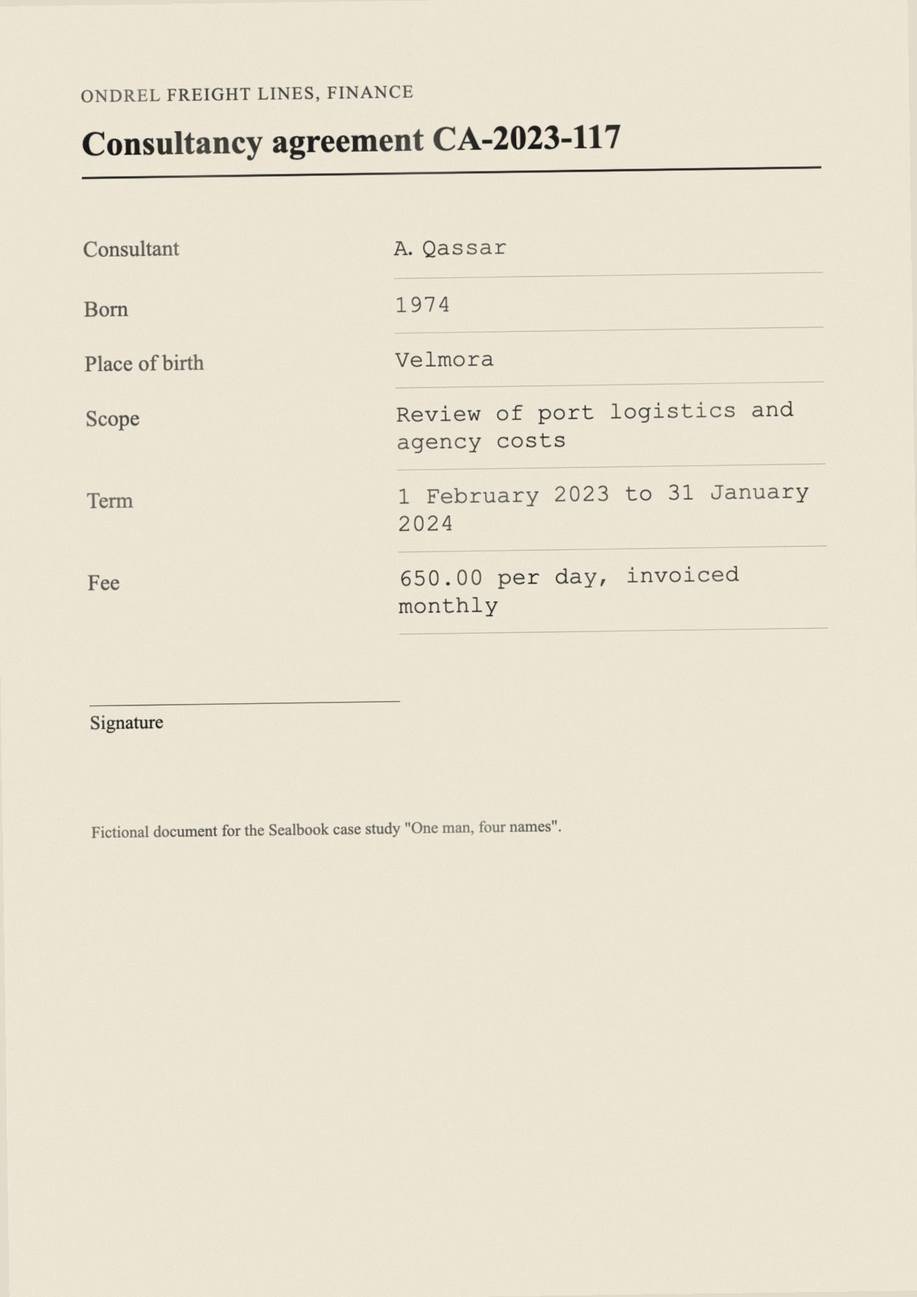
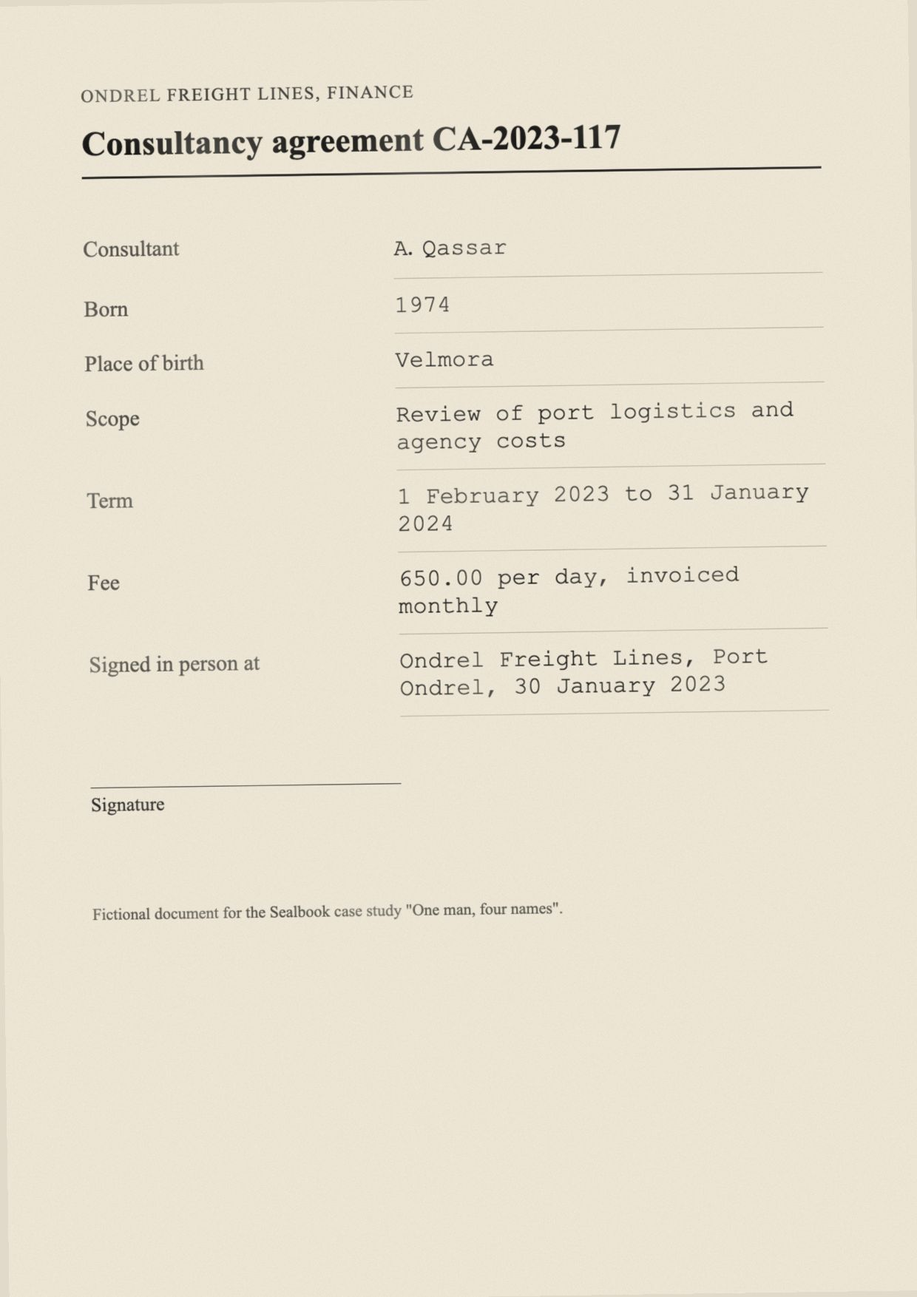
feat(cases): four-names carries a dated trail of five forms and the seeded cases are documented

diff --git a/acceptance/cases/four-names/make.py b/acceptance/cases/four-names/make.py
@@ -104,16 +104,16 @@ RECORDS = {}  # record key: (source, person)
 CLAIMS = []
 
 
-def claim(record, prop, value, pin=None):
+def claim(record, prop, value, pin=None, when=None, place=None):
     CLAIMS.append(
         {
             "key": f"{record}.{prop}",
             "record": record,
             "prop": prop,
             "value": value,
-            "from": None,
-            "to": None,
-            "place": None,
+            "from": when,
+            "to": when,
+            "place": place,
             "tier": "unconfirmed",
         }
         | ({"pin": pin} if pin else {})
@@ -394,6 +394,12 @@ SCANS = {
             ("Owner's place of birth", TOWN, "place_of_birth"),
             ("Registered office", "Quay Road 14, Port Ondrel", None),
             ("Vendor ID", "V031", None),
+            (
+                "Signed in person at",
+                "Ondrel Freight Lines, Port Ondrel, 14 June 2021",
+                "seen_at",
+                "Ondrel Freight Lines, Port Ondrel",
+            ),
         ],
     ),
     "agreement": (
@@ -407,6 +413,12 @@ SCANS = {
             ("Scope", "Review of port logistics and agency costs", None),
             ("Term", "1 February 2023 to 31 January 2024", None),
             ("Fee", "650.00 per day, invoiced monthly", None),
+            (
+                "Signed in person at",
+                "Ondrel Freight Lines, Port Ondrel, 30 January 2023",
+                "seen_at",
+                "Ondrel Freight Lines, Port Ondrel",
+            ),
         ],
     ),
     "guarantee_deed": (
@@ -418,7 +430,12 @@ SCANS = {
             ("Son of", FATHER, "father_name"),
             ("Date of birth", BORN, "birth_date"),
             ("Secures", "Ondrel Logistics credit line, up to 1,200,000.00", None),
-            ("Witnessed at", "Port Ondrel, 9 March 2023", None),
+            (
+                "Witnessed at",
+                "Ondrel Freight Lines credit desk, Port Ondrel, 9 March 2023",
+                "seen_at",
+                "Ondrel Freight Lines credit desk, Port Ondrel",
+            ),
         ],
     ),
     "passport": (
@@ -430,6 +447,12 @@ SCANS = {
             ("Sex", "M", "sex", "male"),
             ("Date of birth", BORN, "birth_date"),
             ("Place of birth", TOWN, "place_of_birth"),
+            (
+                "Original seen in person at",
+                "Ondrel Freight Lines credit desk, 9 March 2023",
+                "seen_at",
+                "Ondrel Freight Lines credit desk",
+            ),
         ],
     ),
     "licence": (
@@ -442,8 +465,28 @@ SCANS = {
             ("Date of birth", BORN, "birth_date"),
             ("Licence", "PA-2291", None),
             ("Valid until", "31 December 2024", None),
+            (
+                "Issued in person at",
+                "Harbour House, Port Ondrel, 5 January 2023",
+                "seen_at",
+                "Harbour House, Port Ondrel",
+            ),
         ],
     ),
+}
+# Where and when each form puts the man in person: one trail across the four
+# desks, each read off its own form.
+TRAIL = {
+    "vendor_form": ("2021-06-14", "freight_lines"),
+    "licence": ("2023-01-05", "harbour_house"),
+    "agreement": ("2023-01-30", "freight_lines"),
+    "guarantee_deed": ("2023-03-09", "freight_lines"),
+    "passport": ("2023-03-09", "freight_lines"),
+}
+# Invented places, in open sea so no map puts the story in a real town.
+PLACES = {  # key: name, lon, lat, precision in metres
+    "freight_lines": ("Ondrel Freight Lines, Port Ondrel", -26.104, 44.302, 100),
+    "harbour_house": ("Harbour House, Port Ondrel", -26.092, 44.296, 100),
 }
 SCAN_PERSON = {
     "vendor_form": "vendor_form/owner",
@@ -540,7 +583,9 @@ def scan_claims():
             # the field it was read from.
             if prop:
                 value = read[0] if read else shown
-                claim(record, prop, value, {"page": 1, "bbox": boxes[key][prop]})
+                when, place = TRAIL[key] if prop == "seen_at" else (None, None)
+                pin = {"page": 1, "bbox": boxes[key][prop]}
+                claim(record, prop, value, pin, when, place)
 
 
 # ---- sources, truth, case.json ---------------------------------------------------------
@@ -712,7 +757,10 @@ def main():
         },
         "investigation": INVESTIGATION,
         "today": TODAY,
-        "places": {},
+        "places": {
+            k: {"name_en": n, "name_ar": None, "lon": lon, "lat": lat, "precision_m": m}
+            for k, (n, lon, lat, m) in PLACES.items()
+        },
         "sources": {
             k: {"title": t, "doc_type": d, "sensitivity": s, "date": dt}
             | {"file": f"files/{f}"}

diff --git a/tests/test_case_studies.py b/tests/test_case_studies.py
@@ -57,7 +57,7 @@ class FourNamesScoreTest(unittest.TestCase):
         out join the licence, whose father إلياس keys as ياس (the article ال
         stripped) against Elias; the consultant's records, which name no father,
         still bridge the licence to the other three."""
-        self.assertEqual(self.report["claims"], 417)
+        self.assertEqual(self.report["claims"], 422)
         self.assertTrue(self.report["complete"])
         self.assertEqual(self.linker["recall"], 0.667)
         missed = [
@@ -125,7 +125,7 @@ class SeedStudyTest(Seeding):
             with self.assertRaises(click.ClickException):
                 await seed_study(s, self.app, FOUR_NAMES)
         self.assertEqual(out["sources"], 14)
-        self.assertEqual(out["claims"], 417)
+        self.assertEqual(out["claims"], 422)
         # The fixed answer proposes every candidate, the namesake included.
         self.assertEqual(out["linker proposals"], 5)
         async with ext.async_session_factory() as s:

diff --git a/docs/status.md b/docs/status.md
@@ -51,7 +51,7 @@ data was used. Counts from checks on real data, kept off this repository, are in
 | Proactive agents | Sealed runs that read across a case and only propose (`sealbook/agents`), queued for the batch owner when an intake batch finishes (linker first, then brief) and on demand. No acquisition, so the sensitive policy row applies, which allows `local` and `cloud-zdr` (`sealbook_0002`); `AGENT_MODEL` (default `deepseek/deepseek-v4.1-flash-1017`) on OpenRouter's zero-retention route (`AGENT_ROUTE`, default `cloud-zdr`), or on a private endpoint at `ROUTE_LOCAL_BASE_URL` with `AGENT_ROUTE=local`; off, with the reason shown, when the model is unset. The model sees short handles, never ids, and answers a JSON schema; every answer is validated before anything is stored. **Gap finder** (`gaps`): manually triggered cited suggestions for gaps in person records, described below. **Intake brief** (`brief`): what arrived, who (new or known, linking the person), where (resolved place known or new, or not yet placed), when, counted from the claims; what it connects to (same person in other sources, incidents, open findings) and what disagrees (a single-valued field against an accepted claim, both sides cited), written by the model from candidates; at most five next steps chosen from actions that each open the screen (Review at the first pending claim, the linker's links, a place to confirm, a finding, the colleague assigned a related source, the person page's research drawer). A line without a citation, citing an unknown handle, writing a handle into the text, citing one side of a disagreement, or naming a sensitive value it does not cite is dropped and counted. The brief is the run's stored output (`output_hash`); writing again keeps versions. Readers get it through masking: a line resting on a sensitive source not revealed this session is locked, one resting on a claim since rejected, erased or unavailable is gone; the first unlocked read per version and session writes an access record. Inbox shows it as the "Intake finished" body; the Desk shows the newest unread one on top until its notification is read (`GET /api/agents/brief|briefs`, `POST /api/agents/brief`). With the agents off a finished batch still gets a brief, written by its rules alone on the local route (model `sealbook-rules`, provider `sealbook`, no linker): the counted sections, one templated line per connection and disagreement, and the first five next steps; Write again does the same. When a live model returns no next step, the rule order stands in (`next_by_rule` in the output): on 2026-11-01 `deepseek/deepseek-v4.1-flash-1017` returned empty connections, disagreements and steps for a demo batch with 3 candidates and 10 actions. **Linker** (`link`): candidates built from the claims, then judged by the model: same person (cross-script or partial name match plus at least one agreeing non-name field; a differing birth date or parent rules it out), same full name only (a name of two or more words held by exactly two records in the case, one of them nothing but a name, so a mention in a document can reach the person it names; the model is told only the name matches and sees what else each record says), person at an incident's place and time (`involved`, role unspecified), two sources naming at least two of the same people (`relation` on the blob: contains, contained_in, related), two sources whose reported events name one place on days within two of each other, the event's own day or else the document date (`relation`: same_event): two towns the gazetteer knows must share a place, and only a report without such a town is matched through the places named in its place words, ranked after, two people named together and held at one place and time, or sharing a family name and a parent (`relation`: cellmate, family, command). Each proposal carries its basis statements, the model's one-line reason and the passage span, and is signed by the run of "Linker for <person>". Open, accepted or not-same-blocked links are not proposed again; a rejected one only with a basis claim the rejection did not see, and a candidate the same model declined under the same prompt version (kept in the run's output) the same way. At most 12 new candidates per kind, chosen after known and declined ones are set aside, so each run reaches further down the ranking; 4 per call, and the run stops asking before its lease ends. Find links on person and evidence pages (`POST /api/agents/link`, `GET /api/agents/runs/<id>`). Review shows these as questions with "What it rests on" cards; the reason waits for the reveal of any sensitive basis source. Measured once on case-demo-02 with local `qwen3.5:9b` (Ollama, laptop): brief on the roster batch 34 to 49 s, about 1,500 tokens, schema-valid, no line dropped; linker over the whole case 221 s for 11 candidates, schema-valid, 7 proposed and 4 declined The brief component (`static/js/components/IntakeBrief.js`) opens with one line of counts and Read it as one answer, then What arrived, Who, Where and When as tiles led by names with new ones marked, What it connects to and What disagrees as cards, and the next steps as numbered rows. | Candidates are rule-built, so the model never finds a link no rule shape admits (no command candidates are built at all); model reasons can overstate what the basis says (the reviewer sees the basis beside it); one model, one case, no quality evaluation; whole-case linking is slow on a laptop (about 20 s a candidate); the brief's text and the model's raw output are stored blobs, so erasure hides lines by citation but leaves the bytes; agents send case data, sensitive values included, to a zero-retention provider unless a private endpoint is configured |
 | Batch answer | `/ingest/answer?batch=` or `?source=` (`sealbook/agents/answer.py`, `GET /api/agents/answer`): one page for what a batch added, composed on request from stored data with no model call. Who this may be (the linker's open same-person proposals resting on the batch, with the fields that agree or differ and namesakes told apart by a field), what was said (each recording's length, line count and the line naming someone, opening at its second), what more than one source says (a person, a place or a month given by two or more), the path if the pair is one person (dated places, one step per month however many sources give it), who else was at the same place and time, the gap rule's open end, where each step ran (from the runs' route and model) and the one next step. Every line carries its sources; a line on a sensitive source not revealed is locked; showing values writes one access record per reader and session. Linked from every intake brief and from the Guide | Without the agents' model the linker writes nothing, so the page shows no same-person card, path or others; presence and the path are computed over every tier and are not findings; the demo's recordings are 20 to 30 seconds of synthetic speech, and no long field interview has been measured |
 | Demo case | `stk demo-seed --full` on a fresh database, then the worker, fills every page (`stk demo-seed --recordings` adds only the five family recordings, their claims, the linker run and the brief to a `case-demo-02` seeded before they existed, and refuses a second run): Desk changes, requests, a mention and due and overdue assignments; stored notifications for the admin, analyst-2 and analyst-3; claims on an image box, OCR text of a scan, PDF page text, transcript lines with times and sheet cells; planted copies; a sheet dataset with two confirmed versions and its diff; a real discovery run with four open findings, one accepted candidate incident (signed as one gesture) and one rejected shared presence with its reason; five family recordings dropped as one batch (`acceptance/make_recordings.py`, synthetic voices, fixed transcripts for four and one with no speech left to the worker) that name row 1 of the detainee list under the spelling speech to text writes, so the linker proposes who he is and the batch reads as one answer; a person story with gaps (last seen in Douma and arrested in Harasta on one day is not a disagreement), an incident band and a Branch 999 place story. Sources carry titles an analyst would use (`context.title`; `file` stays the key the seed and search battery use). The retrieval gold set's news passages and test tone go to `case-search-eval`, not the demo case. Both demo cases are queued for indexing at seed time. The linker and the intake brief run on both batches (the admin's roster and statement, analyst-2's family intake sheets) with the fixed answer. The two missing-person posts get a first pass through the worker's own assess writer from a fixed answer (`FIRST_PASS` in `seed_full.py`), left unconfirmed, so To do shows Items read for you. `stk demo-seed --more` adds `case-demo-03` to `case-demo-06` (siege, displacement, detention, market shelling: 9 to 16 sources each, multiple spellings, dated placed claims, accepted, rejected and open proposals, assignments across analyst-2 to analyst-5) and `--scale N` adds N claim-free synthetic filler sources to `case-scale-demo` (chained, no runs queued, assigned only to analysts who are not admins). Walkthrough: [demo.md](demo.md) | The witness clip transcript, the two sheet extractions and the linker and intake brief on both batches are fixed output (served model `sealbook-demo-fixed-output`, a `demo` note in the run inputs), not model runs; the OCR of the detainee list and dormitory roster scans is a real `google/gemini-4-argon` answer on the zero-retention route, recorded on 2026-10-31 (`acceptance/demo/ocr.json`) and replayed through the `ocr` tool, its run marked as recorded; a claim pinned to OCR text draws no box on the scan (the Read tab shows the OCR text it sits on); human decisions are signed by a demo software passkey; no package is built, since that needs anchor receipts; the extra cases use text stand-ins and photographs only (no scans, PDFs, audio or sheets), and fillers have no bytes, so their previews are empty |
-| Case studies | `acceptance/cases/<slug>/` holds a fictional case as `case.json`, its `make.py` and its files; `acceptance/eval_agents.py --case` scores it like the agent case (same-person pairs per identity cluster, unplanted truth keys read as `null`) and `stk demo-seed --case <slug>` writes it through intake and the ledger, accepts its planted clusters and claims with a passkey signature and runs the linker on the fixed answer. First case: One man, four names (`case-four-names`), fixed recall 0.667 and 1 false merge, live 0.667 and 0. See [case-studies.md](case-studies.md) | Sheets skip the mapping step and scans have no OCR run; PDF pins fail; only the linker runs at seed time; the Arabic father إلياس keys as ياس, which rules out two of the case's six pairs |
+| Case studies | `acceptance/cases/<slug>/` holds a fictional case as `case.json`, its `make.py` and its files; `acceptance/eval_agents.py --case` scores it like the agent case (same-person pairs per identity cluster, unplanted truth keys read as `null`) and `stk demo-seed --case <slug>` writes it through intake and the ledger in date order, running geotag, thumbnails, fingerprints and indexing on each source as it arrives, OCR or speech to text from a case's fixed transcript, posts beside the clips they came with, and each sheet row as its own mention joined by its desk; it accepts the planted clusters and claims with a passkey signature, confirms planted places that have coordinates, and runs the agents the planted truth scores (linker, contradiction hunter, gap finder) and the intake brief on the fixed answer. Four cases seed: One man, four names (`case-four-names`, fixed recall 0.667 and 1 false merge, live 0.667 and 0, a dated trail of five signed forms), The witness who was never there (`case-never-there`, the alibi offered), The name nobody wrote down (`case-unwritten-name`, both planted gaps) and The footage that was two years old (`case-old-footage`, copies proposed against the original). See [case-studies.md](case-studies.md) | Sheets skip the mapping step, so no dataset version exists; PDF pins fail; no incidents or findings are seeded; the old-footage case has no people, so its Stories and Case map are empty; invented places lie in open sea and draw as dots on a blank map; the Arabic father إلياس keys as ياس, which rules out two of the case's six pairs |
 | Agents page and Noticer | `/agents/` (rail entry Agents; the account menu link stays): one card per agent in the selected case (intake brief, linker, standing questions, contradiction hunter, gap finder, Noticer) with what it does, when it runs, its state (watching, checking now, paused with the reason, on request, off with the missing setting named in one line), the last run in relative words with its outcome sentence, a link to where its results show and the keep checking switch where supported (`GET /api/agents/overview`, `sealbook/agents/overview.py`); the linker and Noticer cards also say how often analysts agreed with their link proposals in the case, all time, from passkey decisions (`human_accept`, `human_reject`) and proposals still open, e.g. "Analysts accepted 1 of 2 decided proposals (3 open).", with a folded line per prompt version and served model (a Noticer link counts under the check that showed it); counts only, never values, and `stk agent-agreement [--investigation]` prints the same table across cases. Other agents only advise, so their cards say nothing about agreement; Recent agent work lists the person's last 12 runs in cases they can open; Outside assistants explains MCP access, shows the server address and the OAuth steps, and lists connected assistants with Disconnect (the existing revoke route). **Noticer** (`notice`, task kind `noticer`, `sealbook/agents/noticer.py`): on an evidence wake (claims written, or now also a finished `embed` or `fingerprint` run, which wake only the noticer) it compares the new sources, and on Check now (`POST /api/agents/notice`) the whole case (at most 200 sources), against everything the person may read. Candidates per pair of sources, ranked by weighted signals: nearest by meaning from the evidence page's probe (`evidence.near_pairs`; close leads, moderate only beside another signal), fingerprint matches (`evidence.copies`), Arabic normaliser name variants on two or more names and open same-person proposals, the same person (name variant) or resolved place in another case the person can open (`tasks.can_read` per case), and shared wording (a run of 8 or more normalised words, shingled). The model judges 16 per run, 4 per call, under the lease budget and a `wait_for` cap: citations from both sides, a quote copied from one of their passages or cited claim values, one sentence why, kind and a next step; unknown handles, one-sided citations, handles or dashes in text, leaks and a quote not found in that text are dropped and counted (a pair matched by fingerprint alone has no text and quotes nothing); the quote shows under What it rests on; "not related" is stored as screened and never shown; pairs already shown or screened are not asked again unless a new signal appears. Shown on the Noticer card and as "This resembles" on each evidence page (`GET /api/agents/notice?sha=`), masked like the brief, with items on a case the person can no longer open left out entirely. "Propose a link" (`POST /api/agents/notice/link`) writes, on the click only, the linker's `relation` (related document) or `same_as` statement, signed by a sealed `notice_link` run of "Noticer for <person>"; names alone never offer a same-person link. `tests/test_noticer.py` | One hosted-model measurement on synthetic data (models.md); the model overstates ("identical") where the signal is partial; candidates only from the five built-in sources; cross-case access is the role check, as the app has no per-case access list; whole-case checks need several runs on a large case; the stored output keeps values from erased claims as for the brief |
 | MCP | Per-user OAuth and three tools (`sealbook/mcp`): `read`, `propose_statements`, `propose_identity`; no acceptance, delete or export. `read` search is the app search (`search.find`) over claim values, source passages and file names: exact matches first, Arabic folded and recorded spellings, each hit leading with the value or passage, tier and source title, then the statement, subject and blob ids to fetch; no hit returns a hint to try another spelling or fewer words. Fetch and history list statements with ids. Every read shape masks as the monitor does with nothing revealed: a personal value from a sensitive or unknown source is `null` with `masked: true`. Request and comment payloads and access records are never returned. Every call is one sealed run and one access statement by the agent for its user. `tests/test_mcp.py` | No reveal over MCP, so a masked value stays masked for the agent; search has no case filter and no meaning-based leads (keyword mode only); fetch and history show other claims on a source with an erased claim, as the monitor does |
 | Guide | `/guide` (rail and palette, `sealbook/guide`): opens on a start panel (what Sealbook does in two sentences, the hatched and solid colour rule, and an isometric drawing of one file's path, `static/js/guide-flow.js`) and Your first ten minutes, the steps from `content.FIRST` each with one screen to open (a step that opens a demo source is left out on a server that does not hold it, `guide.views.first_cards`); every task below is one collapsed row that opens on click or by its link. Bayanat's words is a filter chip: a table of Bayanat's words (bulletin, Machine Created, Assigned to me, Updated, Peer Review Assigned, +Label notes, Revisited, Finalized, incident, actor, location, export request) and where the same work lives here; then one page of task scenarios read from `sealbook/guide/content.py`, each with steps, what AI proposes, what you decide, the result, a configuration note and Open it links that switch the case to `case-demo-02` and open the real screen; starting in To do, working an item from assigned to finalized, checking a first pass and turning posts about one event into an incident; filter by text and area (Bring evidence in, Find, Connect, Decide, Agents, Share, Trust), an anchor per scenario (`/guide#import-a-sheet`). The Why the record holds chapter explains row hashes, commitments, the chain, Merkle batches, anchoring, signatures and the offline verifier, then checks one real accepted, run-signed claim of the case from `GET /api/guide/proof?investigation=` (analyst or admin; the chained row, row and entry hashes, the next entry's link, the Merkle path to its batch root or to the range the next anchor closes, receipt states, the run key and signature, the passkey acceptance; never a value; one access record per reader, claim and session). The browser recomputes the row hash, the link, the Merkle root and the Ed25519 signature with WebCrypto; Change one character flips one character of the commitment and shows where each level of rewrite breaks. `tests/test_guide.py` checks ids, dashes, that every link is a page that opens for an analyst, and the proof against `chain` and `merkle`; the page is in `check_sense` Coming from Bayanat (the chip, a button on the opening and a link beside the starter cards on To do) now opens with a table of the same step in Bayanat and here, since the order is reversed: there a person reads and writes the record, here it is drafted and a person checks it; the glossary of Bayanat's words follows. | The passkey acceptance is checked on the server, not in the browser; receipts are shown as states, their bytes are not checked in the browser; the demo database has no closed batch, so its chapter shows the provisional range; scenarios are prose kept in step with the code by hand |

diff --git a/docs/case-studies.md b/docs/case-studies.md
@@ -26,37 +26,64 @@ uv run stk demo-seed --case <slug>                                         # int
 
 Keys the seeder reads beyond that shape, all optional:
 
-- `sources.<key>.file`: a path under the case directory. Without it the seeder writes
-  a text stand-in listing the source's claims. `sources.<key>.origin` overrides the
-  acquisition origin.
-- `claims[].pin`: where the claim sits in its file. A sheet cell
-  (`{"sheet", "row", "column"}`, the header is row 1), a box on a scan
-  (`{"page", "bbox"}`), or a quote found in a text file (`{"text", "after"}`). Every
-  extracted claim needs one: the gate rejects an agent's claim without a valid span.
-  Stand-in sources pin their own claims.
-- `claims[].event`: the event kind of an `event` claim, as in the agent case.
+- `sources.<key>.file`: a path under the case directory or its `files/`.
+  `sources.<key>.text`: the source's words, ingested as a text item when it has no
+  file. With neither, the seeder writes a text stand-in listing the source's claims.
+  `sources.<key>.origin` overrides the acquisition origin.
+- `sources.<key>.transcript`: a file of fixed words for a scan or a recording. A
+  scan's text is written by the app's OCR tool and a recording's sentences
+  (`{"duration_ms", "sentences": [{"text", "start_ms", "end_ms"}]}`) by the speech
+  writer, as a demo run with fixed output; the source's claims quote that text.
+- `sources.<key>.post`: `{"title", "text", "doc_type"}`, the post a file arrived
+  with. It is its own text item beside the file, as a page capture keeps the page
+  beside its media, and the source's claims quote it.
+- `claims[].pin`: where the claim sits. A sheet cell (`{"sheet", "row", "column"}`,
+  the header is row 1), a box on a scan (`{"page", "bbox"}`), or a quote in the
+  source's text (`{"text", "after"}`). A claim with no pin quotes its own value from
+  the source's text. Every extracted claim needs a span: the gate rejects an
+  agent's claim without one.
+- `claims[].record`: a key of `records` (a person), or a source key for a claim
+  about the document itself, such as the event a post reports (`reports`).
+- `claims[].event`: the kind of an `event` or `reports` claim.
 - `places.<key>`: `name_en`, `name_ar` (may be empty), `lon`, `lat`, `precision_m`.
-  The seeder imports them as sites a person recorded and confirms every located
-  claim that names one.
+  Places with coordinates are imported as sites a person recorded, as a town
+  (2 km or more), a neighbourhood (1 km) or a site, and every located claim that
+  names one is confirmed. A place without coordinates stays a name and is never
+  drawn.
 
 `truth` keys the case does not plant may be left out or empty. The scores that read
 them come out `null`, and so do their targets, instead of a failure. Same-person
 pairs are scored per identity cluster: a planted pair names one record on each side,
 and records already joined in `clusters` count as one side.
 
-`stk demo-seed --case <slug>` refuses a case that is already seeded. It ingests each
-file through intake, writes every claim as an extraction statement, has a case
-analyst accept the claims planted as `accepted` and each planted cluster's
-same-person links with a passkey signature, confirms the planted places, then runs
-the linker on the fixed answer so its proposals wait in Review. In a worktree, set
-`BLOB_DIR` to the main checkout's `instance/blobs` so the main server can read the
-files.
+`stk demo-seed --case <slug>` refuses a case that is already seeded. Sources enter
+through intake in date order, and the worker's local tools (geotag, thumbnail,
+fingerprint, index) run on each before the next, so a clip is compared only with
+clips already held and a photograph gets `photographed_at` from its EXIF. Each claim
+is an extraction statement. A sheet's rows are separate mentions, as the sheet
+intake writes them: a record's first row is the record and each later row a person
+the desk has already joined to it. A case analyst accepts the claims planted as
+`accepted` and each planted cluster's same-person links with a passkey signature
+and confirms the planted places. Then the agents the planted truth scores run on
+the fixed answer, so their proposals wait for a person: the linker for
+`same_person` or `twins`, the contradiction hunter for `contradictions`,
+`not_contradictions` or `trap_contradictions`, the gap finder for `gaps` or
+`not_gaps`, and the intake brief for a `batch`. In a worktree, set `BLOB_DIR` to the
+main checkout's `instance/blobs` so the main server can read the files.
+
+What the pages read: Stories and the Case map show dated person claims of a
+located kind (`seen_at`, `last_seen`, `arrested_at`, `detained_at`,
+`detention_branch`, `transferred_to`); the map draws only those whose place a
+person confirmed. Incidents come from accepted incident statements, which only a
+person's decision on a finding writes.
 
 Not handled yet: sheets are ingested as files, not through the sheet mapping step
-(`sheets.confirm`), so no dataset version exists; scans are pinned by box and no
-OCR runs; PDF spans fail (`pages_required`, see `blobmeta.py`); audio and video
-claims would need `{"ms"}` pins, which no case has tried; no incidents, findings,
-assignments or briefs are seeded, and only the linker runs.
+(`sheets.confirm`), so no dataset version exists; PDF spans fail (`pages_required`,
+see `blobmeta.py`); audio and video `{"ms"}` pins are untried (claims quote the
+transcript instead); no incidents, findings, assignments or briefs beyond the
+intake brief are seeded. Invented places lie in open sea, so the maps draw dots on
+an empty background. The old-footage case has no people, so its Stories and Case
+map stay empty.
 
 ## One man, four names (fraud)
 
@@ -70,7 +97,9 @@ the ship agent Adrian Kasar, أدريان قصار on his licence, are one man b
 2 March 1974 in Velmora, son of Elias.
 
 The pile: 14 sources, nine sheets with 1,445 rows and five scans, 230 person records
-(222 people) and 417 claims. Three ledgers (purchases, payments, consultancy invoices)
+(222 people) and 422 claims. Each of the five forms says where and when it was
+signed or seen in person, so the man's trail runs from June 2021 to March 2023
+across the three invented sites of Port Ondrel. Three ledgers (purchases, payments, consultancy invoices)
 carry 1,220 rows and no person records. The two scans with a face use one generated
 portrait; see `files/ATTRIBUTION.md`.
 
@@ -108,4 +137,31 @@ What the numbers say:
   full date, and a different place of birth does not rule a pair out. The deck
   cadet never reaches it: his birth date rules him out against every desk.
 - A reader holding one desk's file sees nothing wrong. The rules build the five
-  candidates from 417 claims with no model, and a person still decides each link.
+  candidates from 422 claims with no model, and a person still decides each link.
+
+## The other three cases, seeded
+
+Each case's own README holds its story, planted truth and score. What
+`stk demo-seed --case <slug>` puts on screen, checked 2026-11-21:
+
+- **The witness who was never there** (`case-never-there`): 53 sources and 152
+  claims. The photograph goes through intake and geotag writes where it was taken
+  from its EXIF; the voice note gets its fixed transcript through the speech
+  writer, in English. The contradiction hunter proposes four disagreements, and
+  Mara Quill's person page sets her four places on 14 March side by side under
+  Sources disagree, with the exhibit titles carrying 21:52 and 22:07. Stories and
+  the Case map show 41 people at 8 places.
+- **The name nobody wrote down** (`case-unwritten-name`): 14 sources and 651
+  claims, 608 of them log lines pinned to their sheet cells. Each log line is its
+  own mention joined to its driver, so Aron Vesk's page reads "86 records joined
+  as one person". The gap finder proposes both planted gaps; his page shows "No
+  evidence for 73 days" and the gap from 14 March to 26 May 2026. The supervisor's
+  scanned statement is read by the OCR tool from its fixed text. The depot
+  photograph has the real operator's van cut off its right edge.
+- **The footage that was two years old** (`case-old-footage`): 36 clips and the 16
+  posts that came with a caption, each clip fingerprinted as it arrives in posting
+  order. The viral clip's Copies tab lists "Same recording, Video posted by Ostra
+  Valley Weather on 3 June 2024, strong". Every proposal waits for a person, the
+  weak single-landmark ones too. Each caption is the event its post reports,
+  unconfirmed; Lindmark has no coordinates and is not drawn. The case has no
+  people, so Stories and the Case map are empty.
